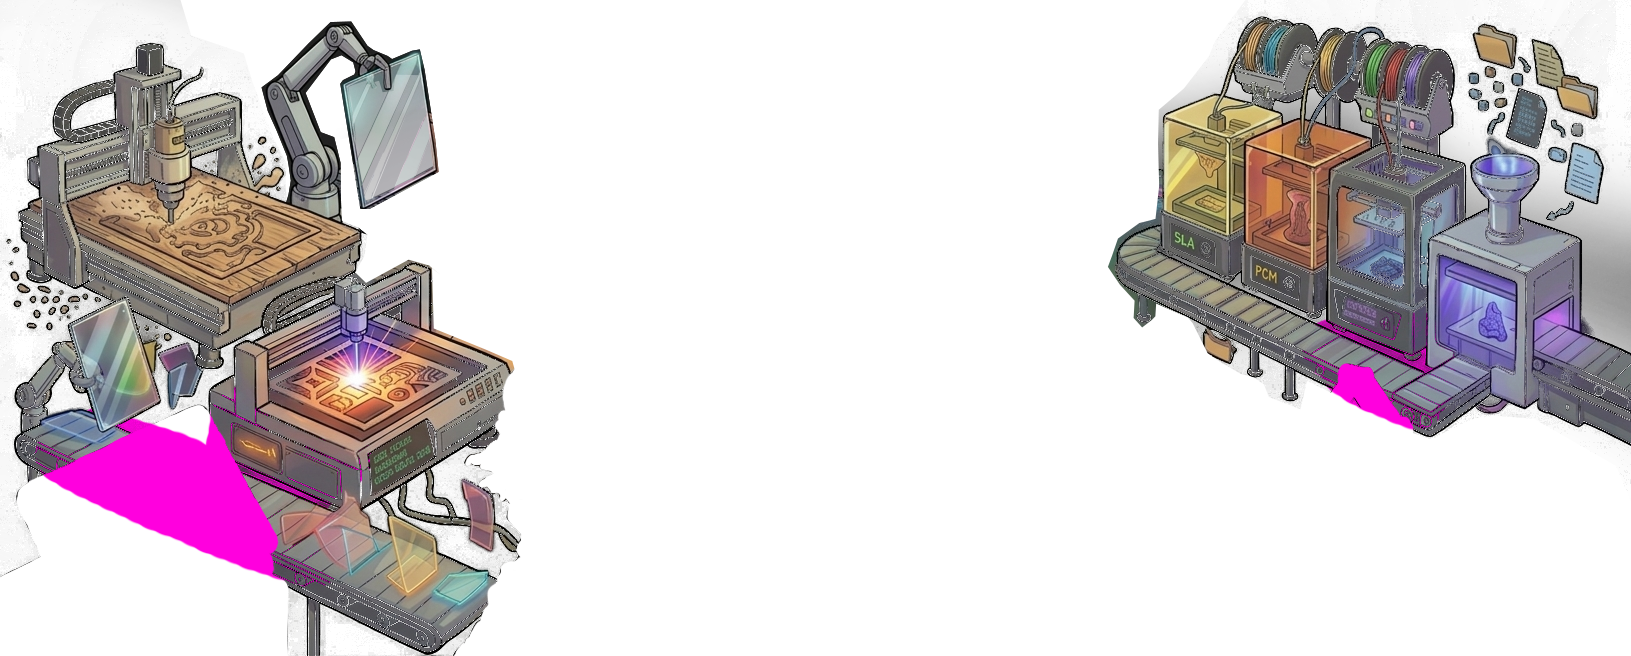
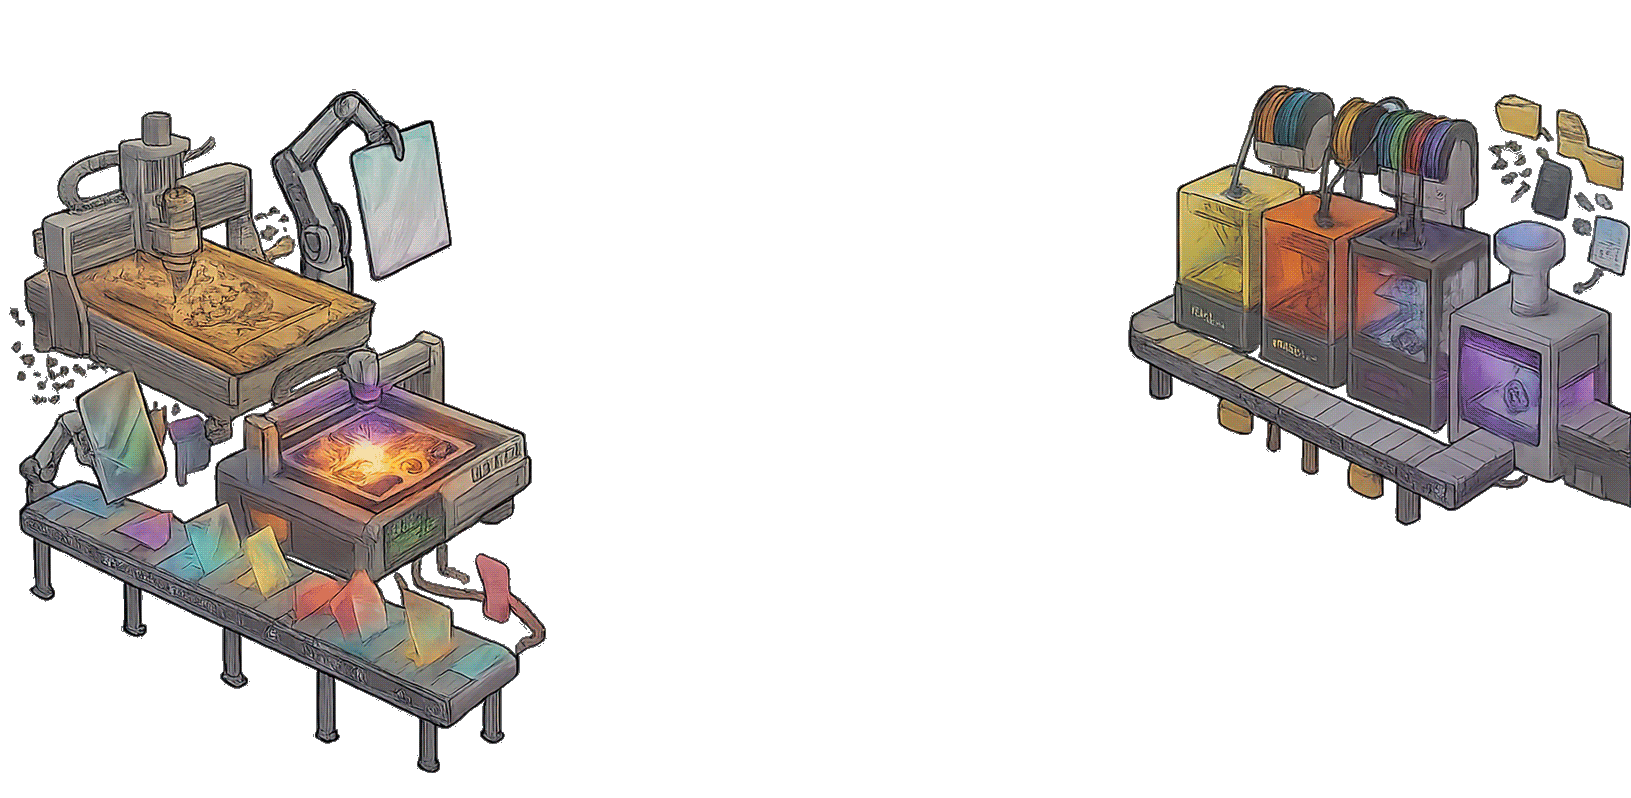
Parallax HERO

diff --git a/_sass/custom.scss b/_sass/custom.scss
@@ -1,13 +1,49 @@
 
 
 
-.home-hero {
+.parallax-container {
   width: 100svw;
+  max-width: 100svw;
   position: relative;
   left: 50%;
   right: 50%;
   margin-left: -50svw;
   margin-right: -50svw;
+}
+.parallax-container {
+  aspect-ratio: 25/10; /* Ajuste conforme necessário */
+  height: auto; /* Ou a altura do seu header */
+  perspective: 10px; /* Define o ponto de fuga */
+  overflow-x: hidden;
+  overflow-y: auto;
+  position: relative;
+}
+
+.parallax-layer {
+  position: absolute;
+  top: 0;
+  left: 0;
+  width: 100%;
+  height: 100%;
+  object-fit: cover;
+}
+
+/* Camada mais distante (fundo) */
+.layer-back {
+  transform: translateZ(-20px) scale(3); 
+  z-index: 1;
+}
+
+/* Camada intermediária */
+.layer-mid {
+  transform: translateZ(-10px) scale(2);
+  z-index: 2;
+}
+
+/* Camada mais próxima (personagem/foreground) */
+.layer-front {
+  transform: translateZ(0) scale(1);
+  z-index: 3;
 }
 
 /* Projects grid */

diff --git a/_layouts/home.html b/_layouts/home.html
@@ -2,7 +2,15 @@
 layout: base
 ---
 
-<img src="{{ '/assets/images/home.png' }}" class="home-hero">
+<!-- <img src="{{ '/assets/images/home.png' }}" class="home-hero"> -->
+
+<div class="parallax-container">
+  <img src="{{ '/assets/images/background.png' }}" class="parallax-layer layer-back" alt="abstract layered landscape with soft hills and a light gradient, distant shapes create depth; calm and serene atmosphere">
+  <img src="{{ '/assets/images/middle.png' }}" class="parallax-layer layer-mid" alt="midground composed of overlapping translucent shapes with subtle texture, contributing depth and gentle motion to the scene">
+  <img src="{{ '/assets/images/foreground.png' }}" class="parallax-layer layer-front" alt="foreground graphic elements with strong contrast framing the scene, providing focus and visual depth">
+</div>
+
+
 <div class="home">
   {%- if page.title -%}
   <h1 class="page-heading">{{ page.title }}</h1>